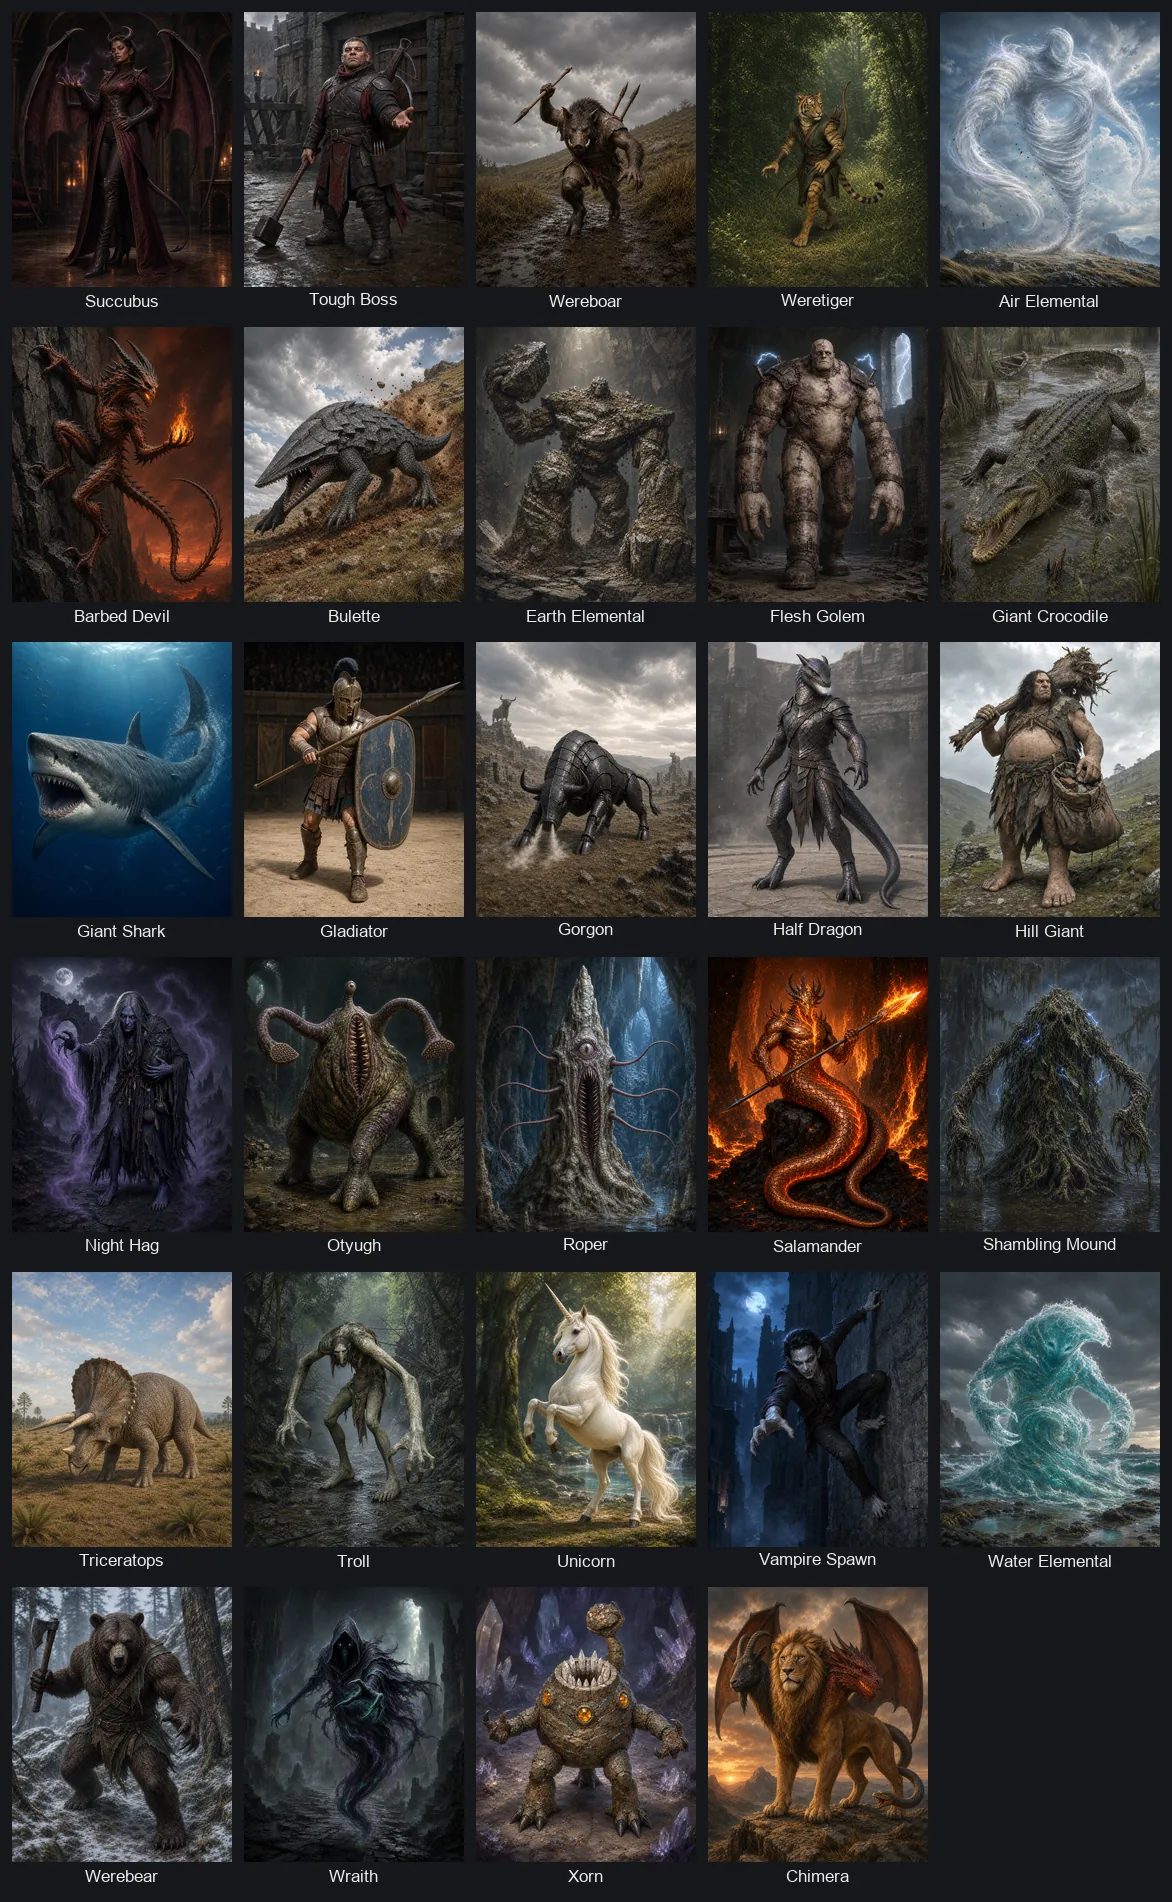
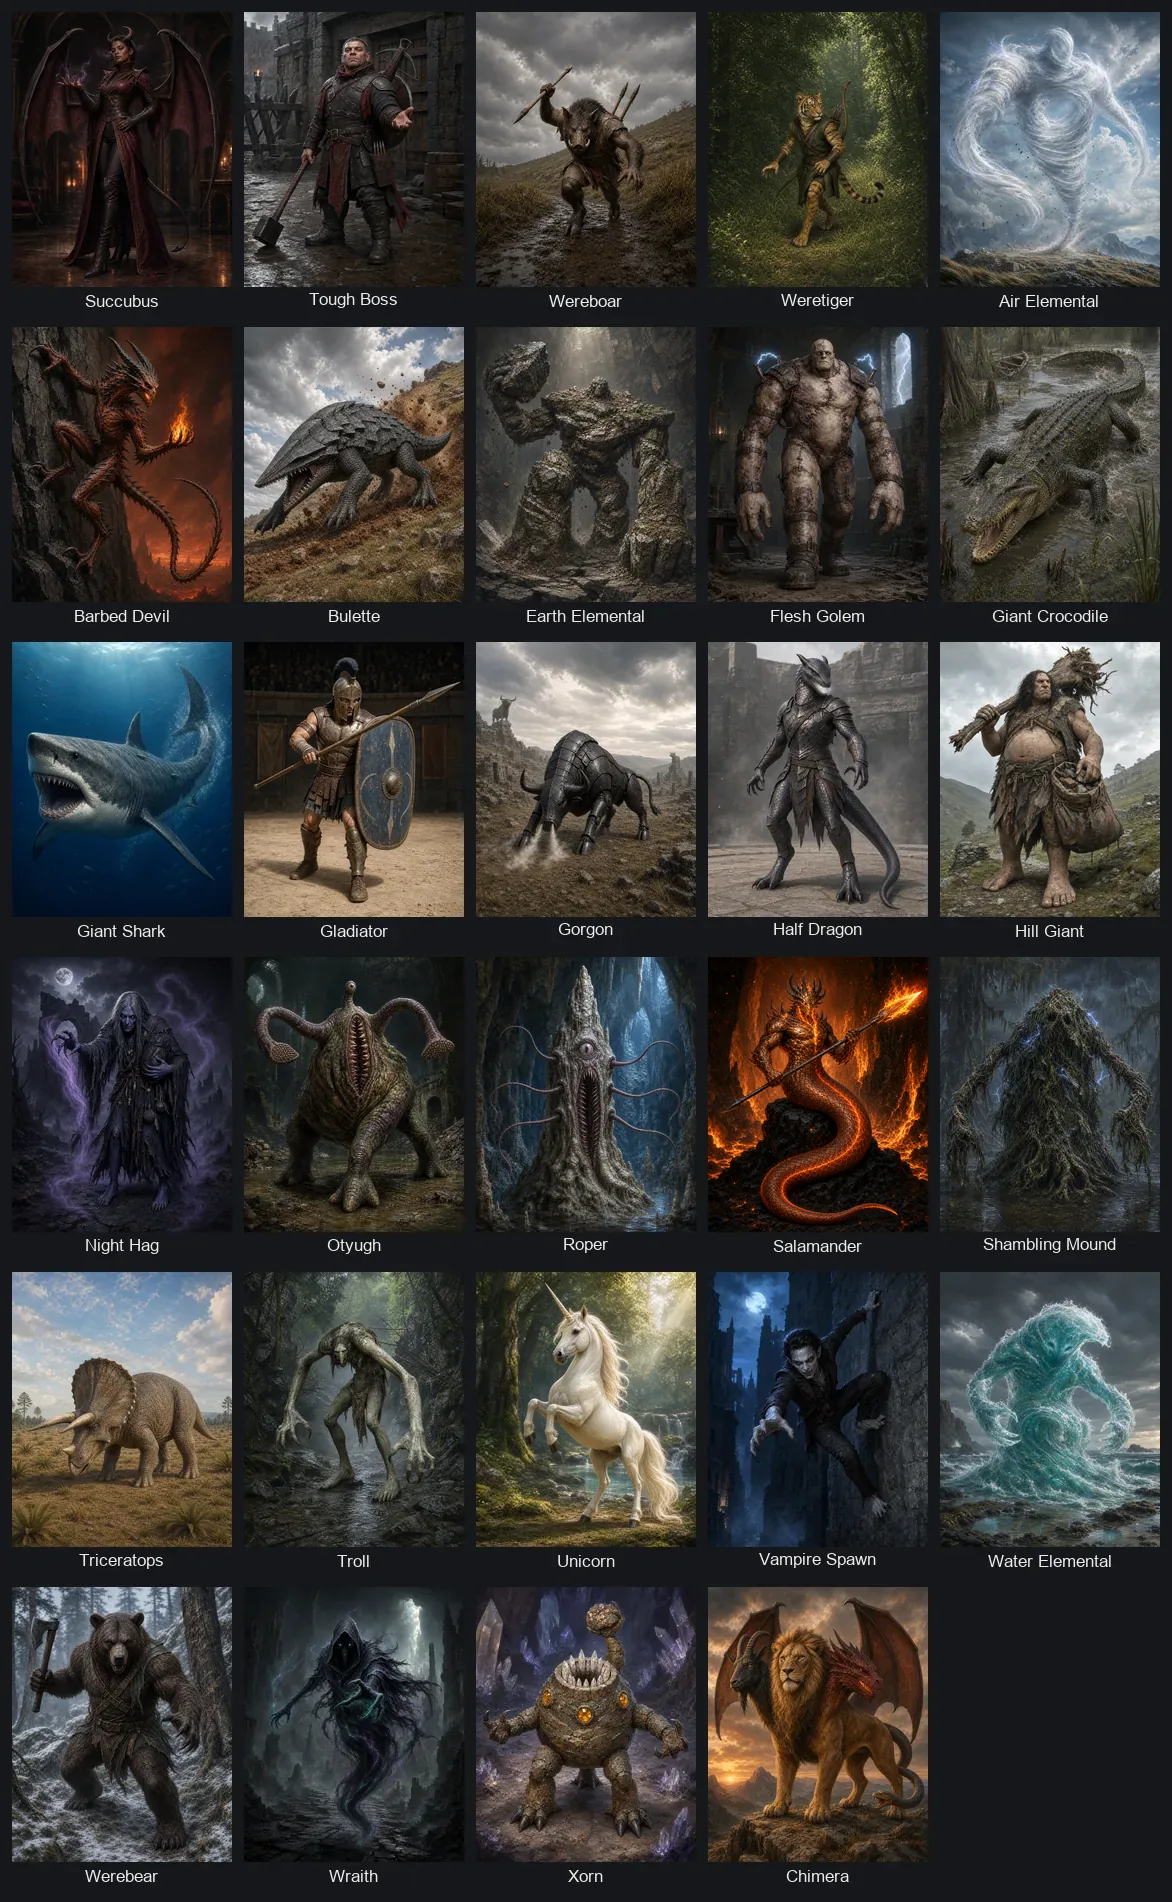
Add Production 09 monster portraits and fix salamander

Changed region(s): [[0.6451, 0.4963, 0.7986, 0.6514], [0.7679, 0.4963, 0.7986, 0.5273]]

diff --git a/docs/visual-review/production-09.md b/docs/visual-review/production-09.md
@@ -6,8 +6,8 @@
 
 - **ID:** `drider`
 - **Stat profile:** CR 6; Large Monstrosity
-- **Review:** pending
-- **Image:** blocked
+- **Review:** approved
+- **Image:** draft
 - **Confidence:** reference-derived
 
 ### Source facts
@@ -77,8 +77,8 @@ A pale drider clings to an Underdark wall on eight black spider legs while gathe
 
 - **ID:** `invisible-stalker`
 - **Stat profile:** CR 6; Large Elemental
-- **Review:** pending
-- **Image:** blocked
+- **Review:** approved
+- **Image:** draft
 - **Confidence:** reference-derived
 
 ### Source facts
@@ -148,8 +148,8 @@ A nearly invisible stalker crosses a rainy rooftop, outlined only by warped air,
 
 - **ID:** `mage`
 - **Stat profile:** CR 6; Small Humanoid (wizard)
-- **Review:** pending
-- **Image:** blocked
+- **Review:** approved
+- **Image:** draft
 - **Confidence:** reference-derived
 
 ### Source facts
@@ -219,8 +219,8 @@ A compact robed mage casts blue-white bolts of force in a ruined observatory.
 
 - **ID:** `mammoth`
 - **Stat profile:** CR 6; Huge Beast
-- **Review:** pending
-- **Image:** blocked
+- **Review:** approved
+- **Image:** draft
 - **Confidence:** reference-derived
 
 ### Source facts
@@ -291,8 +291,8 @@ A shaggy mammoth charges across an arctic steppe with huge curved tusks and snow
 
 - **ID:** `medusa`
 - **Stat profile:** CR 6; Medium Monstrosity
-- **Review:** pending
-- **Image:** blocked
+- **Review:** approved
+- **Image:** draft
 - **Confidence:** reference-derived
 
 ### Source facts
@@ -362,8 +362,8 @@ A snake-haired medusa turns in a ruined desert sanctuary while projecting a pale
 
 - **ID:** `pirate-captain`
 - **Stat profile:** CR 6; Small Humanoid
-- **Review:** pending
-- **Image:** blocked
+- **Review:** approved
+- **Image:** draft
 - **Confidence:** reference-derived
 
 ### Source facts
@@ -433,8 +433,8 @@ A compact pirate captain braces on a stormy deck with rapier drawn and a flintlo
 
 - **ID:** `vrock`
 - **Stat profile:** CR 6; Large Fiend (demon)
-- **Review:** pending
-- **Image:** blocked
+- **Review:** approved
+- **Image:** draft
 - **Confidence:** reference-derived
 
 ### Source facts
@@ -504,8 +504,8 @@ A ragged-winged vrock lands on a blasted crag, shrieking as dark spores shake fr
 
 - **ID:** `wyvern`
 - **Stat profile:** CR 6; Large Dragon
-- **Review:** pending
-- **Image:** blocked
+- **Review:** approved
+- **Image:** draft
 - **Confidence:** reference-derived
 
 ### Source facts
@@ -575,8 +575,8 @@ A two-legged wyvern dives through a mountain ravine with wings spread and venomo
 
 - **ID:** `young-brass-dragon`
 - **Stat profile:** CR 6; Large Dragon (metallic)
-- **Review:** pending
-- **Image:** blocked
+- **Review:** approved
+- **Image:** draft
 - **Confidence:** reference-derived
 
 ### Source facts
@@ -647,8 +647,8 @@ A young brass dragon bursts from a desert dune with broad wings opening and fire
 
 - **ID:** `young-white-dragon`
 - **Stat profile:** CR 6; Large Dragon (chromatic)
-- **Review:** pending
-- **Image:** blocked
+- **Review:** approved
+- **Image:** draft
 - **Confidence:** reference-derived
 
 ### Source facts
@@ -719,8 +719,8 @@ A young white dragon clings to a fractured glacier as frost gathers around its o
 
 - **ID:** `giant-ape`
 - **Stat profile:** CR 7; Huge Beast
-- **Review:** pending
-- **Image:** blocked
+- **Review:** approved
+- **Image:** draft
 - **Confidence:** reference-derived
 
 ### Source facts
@@ -790,8 +790,8 @@ A colossal dark-furred ape crouches on a forest outcrop with a huge boulder draw
 
 - **ID:** `oni`
 - **Stat profile:** CR 7; Large Fiend
-- **Review:** pending
-- **Image:** blocked
+- **Review:** approved
+- **Image:** draft
 - **Confidence:** reference-derived
 
 ### Source facts
@@ -862,8 +862,8 @@ A horned blue oni hovers above a moonlit path with indigo nightmare energy curli
 
 - **ID:** `shield-guardian`
 - **Stat profile:** CR 7; Large Construct
-- **Review:** pending
-- **Image:** blocked
+- **Review:** approved
+- **Image:** draft
 - **Confidence:** reference-derived
 
 ### Source facts
@@ -933,8 +933,8 @@ A towering shield guardian crosses its massive arms protectively in an arcane ar
 
 - **ID:** `stone-giant`
 - **Stat profile:** CR 7; Huge Giant
-- **Review:** pending
-- **Image:** blocked
+- **Review:** approved
+- **Image:** draft
 - **Confidence:** reference-derived
 
 ### Source facts
@@ -1004,8 +1004,8 @@ A lean slate-skinned stone giant draws back a boulder in a vast mountain cavern.
 
 - **ID:** `young-black-dragon`
 - **Stat profile:** CR 7; Large Dragon (chromatic)
-- **Review:** pending
-- **Image:** blocked
+- **Review:** approved
+- **Image:** draft
 - **Confidence:** reference-derived
 
 ### Source facts
@@ -1076,8 +1076,8 @@ A young black dragon climbs from a swamp pool as smoking acid gathers along its 
 
 - **ID:** `young-copper-dragon`
 - **Stat profile:** CR 7; Large Dragon (metallic)
-- **Review:** pending
-- **Image:** blocked
+- **Review:** approved
+- **Image:** draft
 - **Confidence:** reference-derived
 
 ### Source facts
@@ -1148,8 +1148,8 @@ A young copper dragon clings to a sandstone bluff, verdigris touching its bright
 
 - **ID:** `assassin`
 - **Stat profile:** CR 8; Small Humanoid
-- **Review:** pending
-- **Image:** blocked
+- **Review:** approved
+- **Image:** draft
 - **Confidence:** reference-derived
 
 ### Source facts
@@ -1219,8 +1219,8 @@ A compact hooded assassin lands silently in a dark courtyard with shortsword and
 
 - **ID:** `chain-devil`
 - **Stat profile:** CR 8; Medium Fiend (devil)
-- **Review:** pending
-- **Image:** blocked
+- **Review:** approved
+- **Image:** draft
 - **Confidence:** reference-derived
 
 ### Source facts
@@ -1290,8 +1290,8 @@ A scarred chain devil stands in an infernal prison as hooked black chains coil a
 
 - **ID:** `cloaker`
 - **Stat profile:** CR 8; Large Aberration
-- **Review:** pending
-- **Image:** blocked
+- **Review:** approved
+- **Image:** draft
 - **Confidence:** reference-derived
 
 ### Source facts
@@ -1361,8 +1361,8 @@ A black manta-shaped cloaker drops from a cavern ceiling, exposing its ribbed un
 
 - **ID:** `frost-giant`
 - **Stat profile:** CR 8; Huge Giant
-- **Review:** pending
-- **Image:** blocked
+- **Review:** approved
+- **Image:** draft
 - **Confidence:** reference-derived
 
 ### Source facts
@@ -1433,8 +1433,8 @@ A pale-blue frost giant crosses a glacier carrying a huge rimed axe and giant bo
 
 - **ID:** `hezrou`
 - **Stat profile:** CR 8; Large Fiend (demon)
-- **Review:** pending
-- **Image:** blocked
+- **Review:** approved
+- **Image:** draft
 - **Confidence:** reference-derived
 
 ### Source facts
@@ -1504,8 +1504,8 @@ A hulking toad-faced hezrou lurches through a black planar marsh surrounded by f
 
 - **ID:** `hydra`
 - **Stat profile:** CR 8; Huge Monstrosity
-- **Review:** pending
-- **Image:** blocked
+- **Review:** approved
+- **Image:** draft
 - **Confidence:** reference-derived
 
 ### Source facts
@@ -1576,8 +1576,8 @@ A five-headed hydra wades through a coastal marsh, its long necks striking in se
 
 - **ID:** `spirit-naga`
 - **Stat profile:** CR 8; Large Fiend
-- **Review:** pending
-- **Image:** blocked
+- **Review:** approved
+- **Image:** draft
 - **Confidence:** reference-derived
 
 ### Source facts
@@ -1647,8 +1647,8 @@ A dark-scaled spirit naga rises from its coils in a buried shrine as violet necr
 
 - **ID:** `tyrannosaurus-rex`
 - **Stat profile:** CR 8; Huge Beast (dinosaur)
-- **Review:** pending
-- **Image:** blocked
+- **Review:** approved
+- **Image:** draft
 - **Confidence:** reference-derived
 
 ### Source facts
@@ -1718,8 +1718,8 @@ A huge olive-brown tyrannosaurus turns at a run with jaws open and long tail hel
 
 - **ID:** `young-bronze-dragon`
 - **Stat profile:** CR 8; Large Dragon (metallic)
-- **Review:** pending
-- **Image:** blocked
+- **Review:** approved
+- **Image:** draft
 - **Confidence:** reference-derived
 
 ### Source facts
@@ -1790,8 +1790,8 @@ A young bronze dragon climbs from stormy surf as blue-white lightning gathers be
 
 - **ID:** `young-green-dragon`
 - **Stat profile:** CR 8; Large Dragon (chromatic)
-- **Review:** pending
-- **Image:** blocked
+- **Review:** approved
+- **Image:** draft
 - **Confidence:** reference-derived
 
 ### Source facts
@@ -1862,8 +1862,8 @@ A young green dragon coils among ancient roots while yellow-green poison mist dr
 
 - **ID:** `bone-devil`
 - **Stat profile:** CR 9; Large Fiend (devil)
-- **Review:** pending
-- **Image:** blocked
+- **Review:** approved
+- **Image:** draft
 - **Confidence:** reference-derived
 
 ### Source facts
@@ -1933,8 +1933,8 @@ A gaunt bone devil dives through an infernal canyon with its segmented venomous 
 
 - **ID:** `clay-golem`
 - **Stat profile:** CR 9; Large Construct
-- **Review:** pending
-- **Image:** blocked
+- **Review:** approved
+- **Image:** draft
 - **Confidence:** reference-derived
 
 ### Source facts
@@ -2004,8 +2004,8 @@ A massive terracotta clay golem raises both fists in an abandoned courtyard, aci
 
 - **ID:** `cloud-giant`
 - **Stat profile:** CR 9; Huge Giant
-- **Review:** pending
-- **Image:** blocked
+- **Review:** approved
+- **Image:** draft
 - **Confidence:** reference-derived
 
 ### Source facts

diff --git a/docs/bestiary-image-pipeline.md b/docs/bestiary-image-pipeline.md
@@ -27,7 +27,7 @@ The monster index includes material from the *System Reference Document 5.2.1* b
 
 Draft and approved website assets use the stable path `public/images/monsters/<monsterId>.webp`. Production files are 1024×1280 WebP portraits; keep model-native PNG files outside the repository as generation sources. Run `npm run visuals:audit-images` to verify that every tracked draft has exactly one optimized asset, that dimensions and filenames follow the contract, and that no source PNGs remain in the public bundle.
 
-Batch comparison grids are stored beside their review packets as `docs/visual-review/<batch-id>-contact-sheet.webp`. The current grids are `pilot-contact-sheet.webp`, `production-01-contact-sheet.webp`, `production-02-contact-sheet.webp`, `production-03-contact-sheet.webp`, `production-04-contact-sheet.webp`, `production-05-contact-sheet.webp`, `production-06-contact-sheet.webp`, `production-07-contact-sheet.webp`, and `production-08-contact-sheet.webp`.
+Batch comparison grids are stored beside their review packets as `docs/visual-review/<batch-id>-contact-sheet.webp`. The current grids are `pilot-contact-sheet.webp`, `production-01-contact-sheet.webp`, `production-02-contact-sheet.webp`, `production-03-contact-sheet.webp`, `production-04-contact-sheet.webp`, `production-05-contact-sheet.webp`, `production-06-contact-sheet.webp`, `production-07-contact-sheet.webp`, `production-08-contact-sheet.webp`, and `production-09-contact-sheet.webp`.
 
 If a monster's visual-relevant inputs or the prompt version changes, synchronization preserves its authored text but marks approved work `needs-revision`. Duplicate or orphaned records stop synchronization rather than being silently discarded.
 

diff --git a/docs/visual-review/README.md b/docs/visual-review/README.md
@@ -15,6 +15,6 @@ Source: *System Reference Document 5.2.1* by Wizards of the Coast LLC, CC-BY-4.0
 | [Production batch 6](./production-06.md) | 29 | 0 | 29 | 0 |
 | [Production batch 7](./production-07.md) | 29 | 0 | 29 | 0 |
 | [Production batch 8](./production-08.md) | 29 | 0 | 29 | 0 |
-| [Production batch 9](./production-09.md) | 29 | 29 | 0 | 0 |
+| [Production batch 9](./production-09.md) | 29 | 0 | 29 | 0 |
 | [Production batch 10](./production-10.md) | 28 | 28 | 0 | 0 |
 | [Production batch 11](./production-11.md) | 28 | 28 | 0 | 0 |